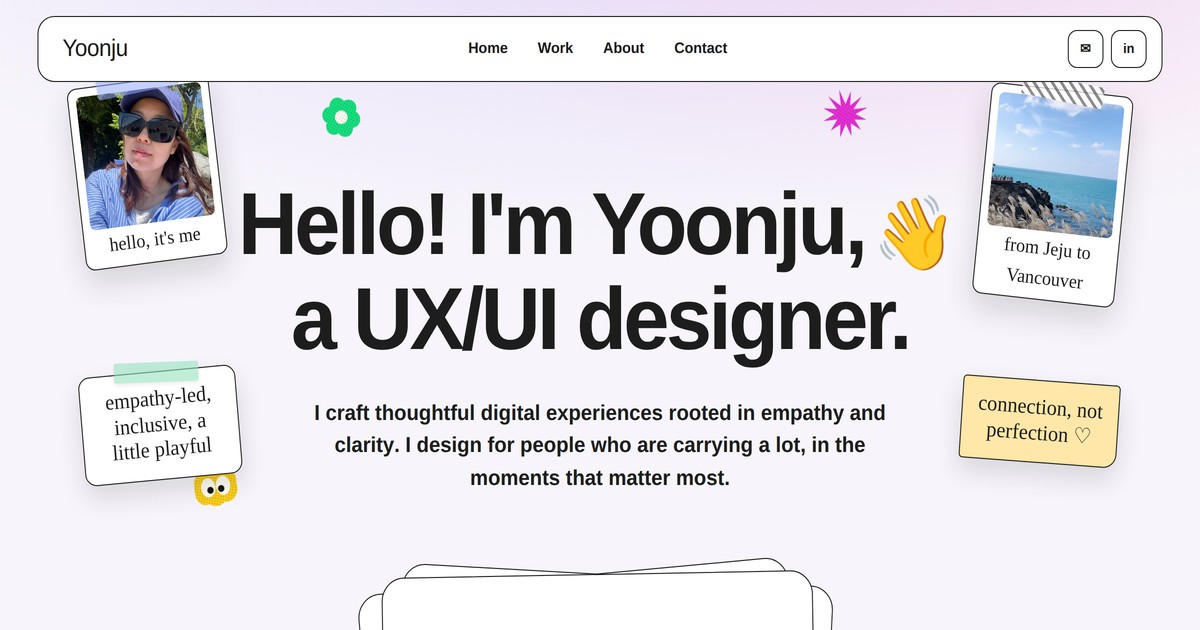
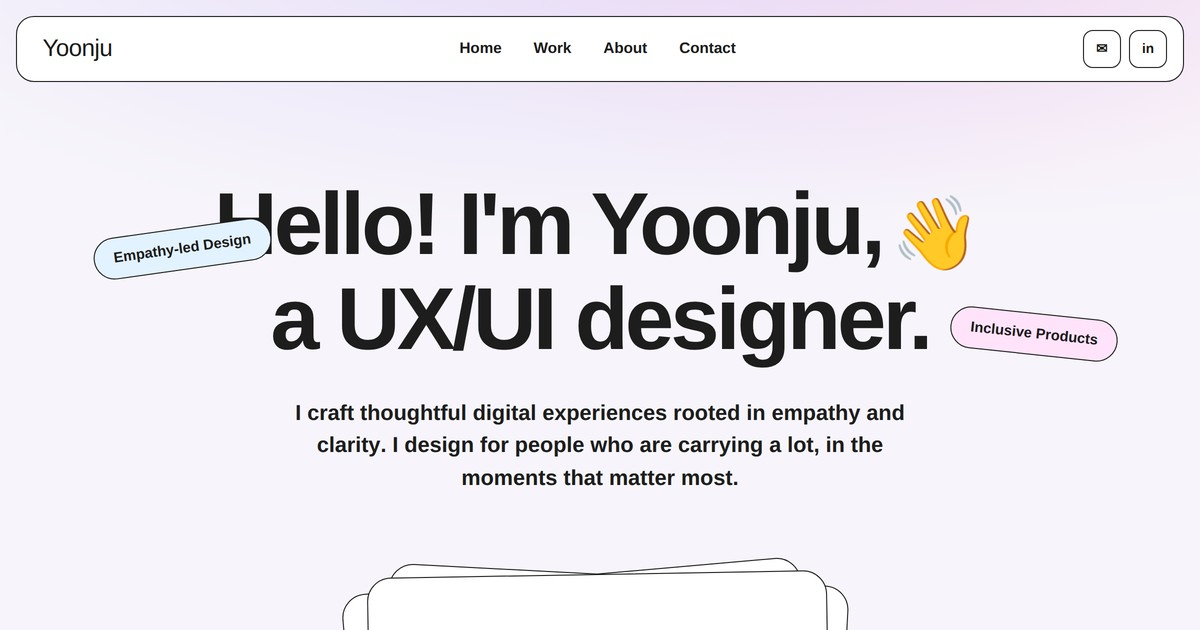
Revert the hero to the sticker-pill layout
Drop the collage experiment and restore the pills and doodles, plus the
matching social preview.

Claude-Session: https://claude.ai/code/session_012FKYWhXaN23kbCPdVXWmde

diff --git a/src/App.css b/src/App.css
@@ -161,122 +161,14 @@ main {
   font-weight: 800;
 }
 
-/* Desk-collage objects scattered around the greeting. */
-.hero-obj {
+.hero-sticker {
   position: absolute;
-  z-index: 2;
-  transition: transform 0.3s ease;
-}
-
-.hero-obj:hover {
-  transform: rotate(0deg) scale(1.05) !important;
-}
-
-/* Polaroid snapshots taped up like the About collage. */
-.obj-photo {
-  margin: 0;
-  width: 152px;
-  background: var(--white);
+  padding: 0.55rem 1.2rem;
   border: 1px solid var(--border);
-  border-radius: 10px;
-  padding: 0.5rem 0.5rem 0.35rem;
-  box-shadow: 0 14px 30px rgba(29, 29, 29, 0.16);
-}
-
-.obj-photo img {
-  width: 100%;
-  aspect-ratio: 1 / 1;
-  object-fit: cover;
-  display: block;
-  border-radius: 6px;
-}
-
-.obj-photo figcaption {
-  text-align: center;
-  font-family: 'Caveat', cursive;
-  font-size: 1.2rem;
-  padding-top: 0.2rem;
-}
-
-/* Washi tape holding each polaroid, same language as the About photos. */
-.obj-photo::before {
-  content: '';
-  position: absolute;
-  z-index: 3;
-  width: 58%;
-  height: 22px;
-  top: -11px;
-  left: 50%;
-  transform: translateX(-50%) rotate(-4deg);
-  border-radius: 2px;
-  box-shadow: 0 2px 4px rgba(29, 29, 29, 0.08);
-}
-
-.obj-photo-0 {
-  left: max(1.5%, calc(50% - 690px));
-  top: 3%;
-  transform: rotate(-7deg);
-}
-
-.obj-photo-0::before {
-  background: rgba(150, 170, 255, 0.55);
-}
-
-.obj-photo-1 {
-  right: max(1.5%, calc(50% - 690px));
-  top: 5%;
-  transform: rotate(6deg);
-}
-
-.obj-photo-1::before {
-  transform: translateX(-50%) rotate(5deg);
-  background: repeating-linear-gradient(
-      45deg,
-      rgba(29, 29, 29, 0.5) 0 3px,
-      transparent 3px 8px
-    ),
-    rgba(255, 255, 255, 0.75);
-}
-
-/* Handwritten notes, one taped card and one sticky. */
-.obj-note {
-  width: 168px;
-  padding: 0.85rem 1rem 1rem;
-  border: 1px solid var(--border);
-  font-family: 'Caveat', cursive;
-  font-size: 1.35rem;
-  line-height: 1.2;
-  text-align: center;
-  box-shadow: 0 12px 26px rgba(29, 29, 29, 0.14);
-}
-
-.obj-note-0 {
-  left: max(2%, calc(50% - 670px));
-  top: 64%;
-  transform: rotate(-5deg);
-  background: var(--white);
-  border-radius: 12px;
-}
-
-.obj-note-0::before {
-  content: '';
-  position: absolute;
-  width: 54%;
-  height: 20px;
-  top: -10px;
-  left: 50%;
-  transform: translateX(-50%) rotate(3deg);
-  border-radius: 2px;
-  background: rgba(150, 225, 190, 0.6);
-  box-shadow: 0 2px 4px rgba(29, 29, 29, 0.08);
-}
-
-.obj-note-1 {
-  right: max(2%, calc(50% - 670px));
-  top: 66%;
-  transform: rotate(4deg);
-  background: var(--tint-yellow);
-  border-radius: 4px 4px 14px 4px;
+  border-radius: 999px;
+  font-size: 0.9rem;
+  font-weight: 700;
+  white-space: nowrap;
 }
 
 /* Halftone sticker doodles scattered around the hero. */
@@ -287,24 +179,24 @@ main {
 }
 
 .doodle-star {
-  width: 52px;
-  right: 25%;
-  top: 5%;
+  width: 84px;
+  right: 12%;
+  top: 8%;
   transform: rotate(14deg);
 }
 
 .doodle-eyes {
-  width: 56px;
-  left: 12%;
-  top: 86%;
+  width: 96px;
+  left: 9%;
+  top: 58%;
   transform: rotate(-9deg);
   animation-delay: -3s;
 }
 
 .doodle-flower {
-  width: 48px;
-  left: 24%;
-  top: 7%;
+  width: 76px;
+  right: 6%;
+  top: 74%;
   transform: rotate(10deg);
   animation-delay: -6s;
 }
@@ -323,6 +215,18 @@ main {
   .hero-doodle {
     animation: none;
   }
+}
+
+.sticker-left {
+  left: 4%;
+  top: 17%;
+  transform: rotate(-8deg);
+}
+
+.sticker-right {
+  right: 5%;
+  top: 52%;
+  transform: rotate(6deg);
 }
 
 /* ───────────── Deck ───────────── */
@@ -2151,26 +2055,23 @@ body.case-open {
 }
 
 /* ───────────── Responsive ───────────── */
-/* The collage needs side room; below this the objects would crowd the text. */
-@media (max-width: 1180px) {
-  .hero-obj {
-    display: none;
-  }
-}
-
 @media (max-width: 820px) {
   .nav-links {
     display: none;
   }
 
+  .hero-sticker {
+    display: none;
+  }
+
   .hero-doodle {
-    width: 44px;
+    width: 52px;
   }
 
   .doodle-eyes {
-    width: 48px;
-    top: 90%;
-    left: 5%;
+    width: 60px;
+    top: 66%;
+    left: 4%;
   }
 
   .deck {

diff --git a/src/App.jsx b/src/App.jsx
@@ -89,26 +89,15 @@ function AvailableBadge() {
 function Hero() {
   return (
     <section id="home" className="hero">
-      {hero.polaroids.map((shot, i) => (
-        <figure
-          className={`hero-obj obj-photo obj-photo-${i}`}
+      {hero.stickers.map((sticker) => (
+        <span
+          key={sticker.label}
+          className={`hero-sticker sticker-${sticker.side} tint-${sticker.tint}`}
           aria-hidden="true"
-          key={i}
         >
-          <img src={shot.src} alt="" />
-          <figcaption>{shot.caption}</figcaption>
-        </figure>
+          {sticker.label}
+        </span>
       ))}
-      {hero.notes.map((text, i) => (
-        <div
-          className={`hero-obj obj-note obj-note-${i}`}
-          aria-hidden="true"
-          key={i}
-        >
-          {text}
-        </div>
-      ))}
-
       <img
         className="hero-doodle doodle-star"
         src="/doodle-star.svg"

diff --git a/src/content.js b/src/content.js
@@ -33,24 +33,14 @@ export const socials = [
   },
 ]
 
-// Hero — big greeting headline + a desk-collage of real objects around it.
+// Hero — big greeting headline + floating sticker pills
 export const hero = {
   titleTop: "Hello! I'm Yoonju,",
   titleBottom: 'a UX/UI designer.',
   sub: 'I craft **thoughtful digital experiences** rooted in **empathy** and **clarity**. I design for people who are carrying a lot, in the moments that matter most.',
-  polaroids: [
-    {
-      src: '/images/about-1.jpg',
-      caption: "hello, it's me",
-    },
-    {
-      src: '/images/funfact-jeju.jpg',
-      caption: 'from Jeju to Vancouver',
-    },
-  ],
-  notes: [
-    'empathy-led, inclusive, a little playful',
-    'connection, not perfection ♡',
+  stickers: [
+    { label: 'Empathy-led Design', tint: 'blue', side: 'left' },
+    { label: 'Inclusive Products', tint: 'pink', side: 'right' },
   ],
 }
 
